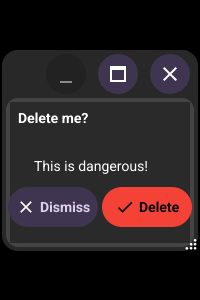
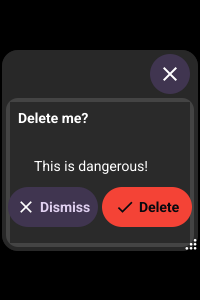
dialog: on mobile a dialog shows only its close button (#654)
Owner decision on #654: windowed dialogs on a phone or tablet showed
minimise, maximise and close in a desktop title bar, and there is
nothing to minimise to there while a dialog already spans the width.

InnerWindow now hides, on mobile, a minimise or maximise button that has
no action (on desktop it is still shown disabled), and a dialog does
not wire maximise on mobile. No API changes. The 22 mobile dialog
images and two mobile markups lose the two buttons; a dialog whose
width came from its title bar is narrower. Desktop images are
unchanged.

Changed region(s): [[0.48, 0.18, 0.69, 0.33], [0.3, 0.27, 0.36, 0.3]]

diff --git a/container/innerwindow.go b/container/innerwindow.go
@@ -71,13 +71,9 @@ func (w *InnerWindow) CreateRenderer() core.WidgetRenderer {
 	v := bellui.CurrentApp().Settings().ThemeVariant()
 
 	min := newBorderButton(theme.WindowMinimizeIcon(), modeMinimize, th, w.OnMinimized)
-	if w.OnMinimized == nil {
-		min.Disable()
-	}
+	setFrameButtonAction(min, w.OnMinimized)
 	max := newBorderButton(theme.WindowMaximizeIcon(), modeMaximize, th, w.OnMaximized)
-	if w.OnMaximized == nil {
-		max.Disable()
-	}
+	setFrameButtonAction(max, w.OnMaximized)
 
 	close := newBorderButton(theme.WindowCloseIcon(), modeClose, th, func() {
 		if f := w.CloseIntercept; f != nil {
@@ -129,6 +125,25 @@ func (w *InnerWindow) CreateRenderer() core.WidgetRenderer {
 	}
 	r.Layout(w.Size())
 	return r
+}
+
+// setFrameButtonAction gives a minimise or maximise button its action. One
+// without an action is disabled on desktop, and hidden on a phone or tablet,
+// where there is nothing to minimise to and an inner window already fills
+// most of the screen: a dialog there shows only its close button (#654).
+func setFrameButtonAction(b *borderButton, action func()) {
+	if action != nil {
+		b.SetOnTapped(action)
+		b.Enable()
+		b.Show()
+		return
+	}
+	b.Disable()
+	if bellui.CurrentDevice().IsMobile() {
+		b.Hide()
+	} else {
+		b.Show()
+	}
 }
 
 // Content returns the content of this inner window.
@@ -276,20 +291,9 @@ func (i *innerWindowRenderer) Refresh() {
 	}
 	i.bar.Refresh()
 
-	if i.win.OnMinimized == nil {
-		i.buttons[1].Disable()
-	} else {
-		i.buttons[1].SetOnTapped(i.win.OnMinimized)
-		i.buttons[1].Enable()
-	}
-
+	setFrameButtonAction(i.buttons[1], i.win.OnMinimized)
 	max := i.buttons[2]
-	if i.win.OnMaximized == nil {
-		i.buttons[2].Disable()
-	} else {
-		max.SetOnTapped(i.win.OnMaximized)
-		max.Enable()
-	}
+	setFrameButtonAction(max, i.win.OnMaximized)
 	if i.win.maximized {
 		max.b.SetIcon(theme.ViewRestoreIcon())
 	} else {

diff --git a/dialog/base.go b/dialog/base.go
@@ -238,6 +238,11 @@ func wrapModal(body core.CanvasObject, cv core.Canvas, windowed bool, onClose fu
 		pop.Resize(win.Size().Add(geo.NewSize(ev.Dragged.DX, ev.Dragged.DY)).Max(win.MinSize()))
 	}
 
+	// On a phone or tablet a dialog shows only its close button: there is
+	// nothing to minimise to, and a dialog already spans the width (#654).
+	if bellui.CurrentDevice().IsMobile() {
+		return pop
+	}
 	var restoreSize geo.Size
 	var restorePos geo.Position
 	maximized := false
